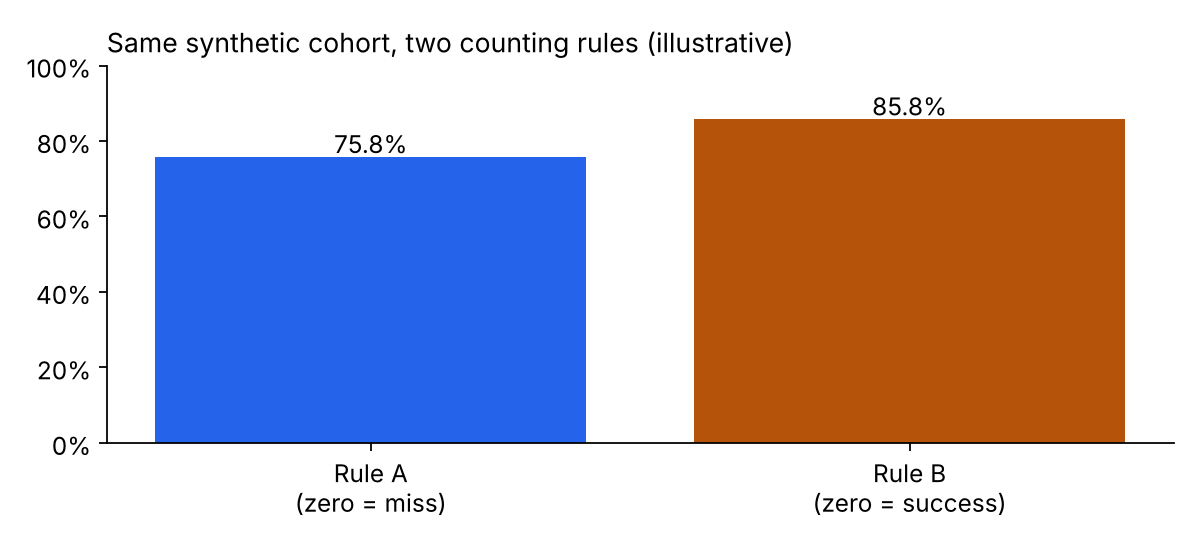
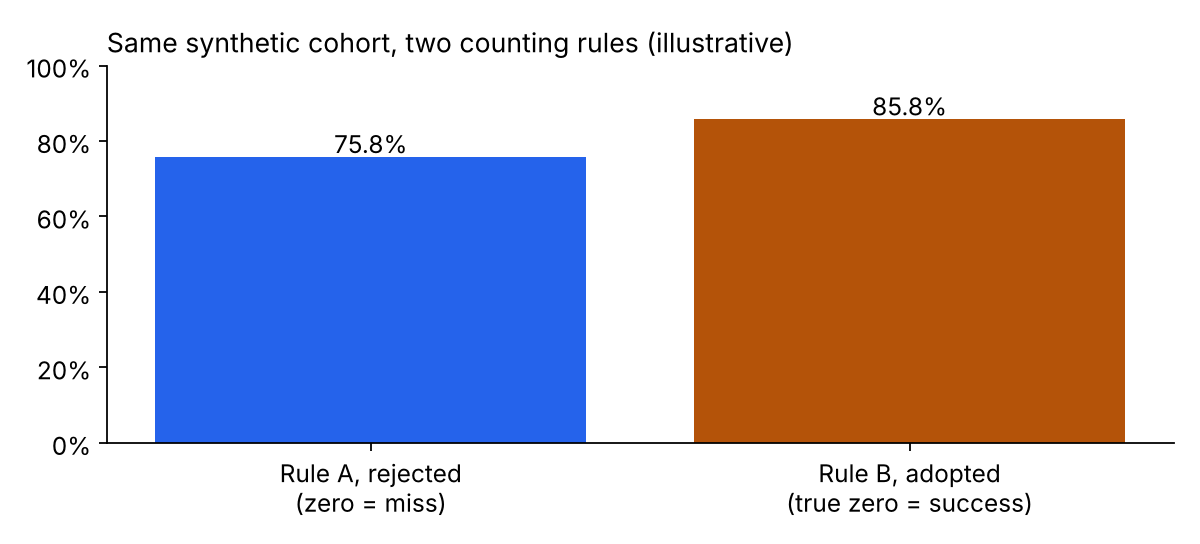
Apply PM decisions, ship jersey hint, add license and deploy config
- Prototype: non-blocking jersey-mismatch / unreadable-number hint (+8 tests, 80 pass)
- Metrics and PRD: verified true-zero week counts as success, missed moment as
  miss, Highlight Coverage companion metric, Phase 1 gate at >=1,000 audited clips
- Record 11 product decisions with reasons in docs/CLAIMS_AND_EVIDENCE.md
- LICENSE (all rights reserved), netlify.toml (publish site/), GitHub Pages workflow
- Update README, wireframe notes, remaining work, analysis wording

Claude-Session: https://claude.ai/code/session_01GCADG3ecfK6e2oSA7HW4Lb

Changed region(s): [[0.6475, 0.8438, 0.8633, 0.9688], [0.2158, 0.8438, 0.4008, 0.9062]]

diff --git a/site/index.html b/site/index.html
@@ -1744,6 +1744,21 @@ function renderReviewQueue() {
       `;
     }
 
+    // Non-blocking hint: compare the number seen in the frame with the child currently assigned.
+    // It never confirms, rejects or skips anything. The coach still decides every clip.
+    let jerseyHintHtml = '';
+    if (clip.status !== 'removed') {
+      const seenNumber = Number(clip.observedJersey); // NaN when the number is not readable
+      const decided = clip.status !== 'unresolved';
+      if (Number.isNaN(seenNumber)) {
+        jerseyHintHtml = `<div class="banner banner-warning jersey-hint"><div><strong>Number not readable on this frame.</strong> Verify who this is another way before deciding.</div></div>`;
+      } else if (assignedPlayer.jersey !== seenNumber) {
+        jerseyHintHtml = decided
+          ? `<div class="banner banner-warning jersey-hint"><div><strong>Heads-up:</strong> this clip is assigned to ${assignedPlayer.name} (#${assignedPlayer.jersey}), but the frame shows jersey #${seenNumber}.</div></div>`
+          : `<div class="banner banner-warning jersey-hint"><div><strong>Check this clip:</strong> the frame shows jersey #${seenNumber}, but the AI proposed ${assignedPlayer.name} (#${assignedPlayer.jersey}). Confirm only if you can verify who this is.</div></div>`;
+      }
+    }
+
     // Individual action controls only (every clip requires explicit decision)
     let actionsHtml = '';
     if (STATE.isPublished) {
@@ -1794,6 +1809,8 @@ function renderReviewQueue() {
       <div style="font-size: 12px; color: #f8fafc;">
         ${clip.description}
       </div>
+
+      ${jerseyHintHtml}
 
       <div class="clip-meta-grid">
         <div>

diff --git a/projects/04-data-analysis-metrics-audit/analysis.py b/projects/04-data-analysis-metrics-audit/analysis.py
@@ -139,12 +139,12 @@ ccdr_a = good.sum() / cohort                       # zero-highlight week counts 
 ccdr_b = (good.sum() + zero.sum()) / cohort        # honest zero counts as success
 out += ["## 6. CCDR under two counting rules (SYNTHETIC cohort, invented rates)", "",
         f"- Cohort: {cohort} child-weeks. Invented outcome rates: zero-highlight {p_zero:.0%}, wrong child {p_wrong:.0%}, held {p_held:.0%}, delivery failure {p_fail:.0%}.",
-        f"- Rule A (honest zero = miss, the current choice): CCDR = **{ccdr_a:.1%}**",
-        f"- Rule B (honest zero = success): CCDR = **{ccdr_b:.1%}**",
-        f"- Difference: {100 * (ccdr_b - ccdr_a):.1f} points, driven entirely by how common zero-highlight weeks are. A quiet-playing child is not a product failure, so Rule A can punish honest behaviour.",
-        "- This is the product decision flagged in docs/CLAIMS_AND_EVIDENCE.md (item D2). The rates are made up; only the mechanism is the finding.", ""]
+        f"- Rule A (honest zero = miss, REJECTED): CCDR = **{ccdr_a:.1%}**",
+        f"- Rule B (verified true-zero = success, ADOPTED): CCDR = **{ccdr_b:.1%}**",
+        f"- Difference: {100 * (ccdr_b - ccdr_a):.1f} points, driven entirely by how common zero-highlight weeks are. A quiet-playing child is not a product failure, so Rule A would punish honest behaviour and push toward padding reels.",
+        "- Product decision (October 2026): adopt Rule B, always report Highlight Coverage beside CCDR, and count a *missed* moment as a miss. The rates are made up; only the mechanism is the finding.", ""]
 fig, ax = plt.subplots(figsize=(7.5, 3.4))
-labs = ["Rule A\n(zero = miss)", "Rule B\n(zero = success)"]
+labs = ["Rule A, rejected\n(zero = miss)", "Rule B, adopted\n(true zero = success)"]
 ax.bar(labs, [ccdr_a, ccdr_b], color=[BLUE, AMBER])
 for i, v in enumerate([ccdr_a, ccdr_b]):
     ax.text(i, v + 0.01, f"{v:.1%}", ha="center")

diff --git a/docs/CLAIMS_AND_EVIDENCE.md b/docs/CLAIMS_AND_EVIDENCE.md
@@ -58,16 +58,25 @@ The original assessment files (Decision Card, submission, materials, AI use log,
 9. The AI log: "Gemini 1.5 / 3.8" looks like a typo.
 10. The assessment's required form for the Decision Card, which these documents should match.
 
-## D. Decisions that need your product judgment
+## D. Product decisions taken (October 2026)
 
-1. **Confidence and review.** I removed all auto-publish and delayed-release tiers, based on your rule that high confidence never bypasses coach review. If your submission had them, tell me how to present them (for example, as a rejected option).
-2. **Zero-highlight and CCDR.** The current metric counts an honest zero-highlight week as a miss in the numerator. Is that your intended definition?
-3. **CCDR with sampled audits.** Keep "every record audited", or define an estimate with an interval?
-4. **Phase 1 gate.** "50 clean matches and CCDR 95%" and "Wilson lower bound 95% at 500 audited clips" are two gates. Both, or one?
-5. **Jersey-mismatch warning.** Should Review warn when a confirmed child's jersey differs from the frame? It would help, but could also train coaches to ignore warnings.
-6. **Reassign preselect.** The modal now preselects the single roster player whose jersey matches the frame. This is generic, not hard-coded to one clip, but it is still a suggestion that could bias a coach. Keep it?
-7. **Lock after publish.** The prototype now blocks review changes after publication. The real correction flow (revoke, reissue, notify) is undefined.
-8. **License.** None exists. Pick one, or state "all rights reserved".
+You asked me to decide as the PM. These are my decisions, with reasons. Each is reversible by editing the files named. **They are recommendations I made on your behalf, so read them before you rely on them.**
+
+| # | Question | Decision | Why | Applied in |
+|---|---|---|---|---|
+| 1 | Can high confidence ever skip coach review? | **No, at any phase.** Confidence only orders and flags the queue. | Matches your rule. A confident model can still be wrong, and the cost of a wrong-child delivery is a trust and safeguarding failure. | PRD sections 3, 8, 14 |
+| 2 | Does an honest zero-highlight week count as a CCDR success? | **A verified true-zero week is a success. A missed moment is a miss.** CCDR is always reported beside **Highlight Coverage**. | Counting honest zero as a miss lowered CCDR by about 10 points in the synthetic cohort and pushes toward padding reels. The coverage companion stops CCDR being gamed by withholding. | Metrics doc, PRD section 13, `projects/04` |
+| 3 | CCDR when audits are sampled | **Phase 1 audits every batch (exact). Later phases report an estimate with a Wilson 95% interval from a stratified sample. Unaudited records never count as success.** | Keeps the metric honest as audit coverage drops. | PRD section 13 |
+| 4 | Phase 1 gate | **All must hold: at least 50 clean matches, Wilson 95% lower bound of at least 0.95 on at least 1,000 audited clips, no unresolved wrong-child incident.** | At 500 clips a truly 97%-accurate system passes only about 57% of the time. At 1,000 it passes about 88%, a fairer test. | PRD section 14, `projects/04` |
+| 5 | Jersey-mismatch warning | **Ship it, as a non-blocking hint.** It appears when the number seen in the frame differs from the assigned child, or when the number is unreadable. It never confirms, rejects or skips a clip. **Validate in the usability test** with and without it. | Cheap, directly targets the 14-vs-4 failure. Risk is warning fatigue, which the test measures. | Prototype, 8 new tests, wireframe C4 |
+| 6 | Reassign preselects the player whose jersey matches the frame | **Keep**, labelled "Preselected because jersey #N matches. Verify visually." | Speeds the common case. Same warning-fatigue risk, same test. | Prototype, wireframe C5 |
+| 7 | Review after publish | **Locked.** A real correction flow (revoke, reissue, notify, audit) is on the roadmap, not designed. | The delivered manifest must not drift from what was sent. | Prototype, wireframe C12, remaining work |
+| 8 | License | **All rights reserved for now** (see `LICENSE`). | This is a portfolio. Visibility matters more than reuse, and you can loosen to MIT later. You cannot take a permissive license back once others copy the repo. | `LICENSE`, README |
+| 9 | Publish your Instagram analysis as a data project? | **Not now.** | Needs a fresh data pull and your consent to publish. The TouchlineAI audit already fills the Data Analysis gap. | Remaining work |
+| 10 | Teardowns | **Publish as clearly labelled drafts**, not as finished work. | They rest on search summaries. Presenting them as hands-on would be misleading. | `projects/02`, `projects/03` |
+| 11 | The October 15 feasibility date | **Keep.** | It is the memo's proposed commitment. The five-day plan fits. | `projects/07` |
+
+Still needing **you**: check the source facts in section C against your original files, and do the teardown hands-on lists.
 
 ## F. Limits of the portfolio projects (added later)
 

diff --git a/analytics/METRICS_DECONSTRUCTION.md b/analytics/METRICS_DECONSTRUCTION.md
@@ -112,19 +112,23 @@ $$\text{CCDR}_w = \frac{\sum_{i \in C_w} Y_i}{|C_w|}$$
 
 Where the binary success indicator $Y_i \in \{0, 1\}$ is defined as:
 
-$$Y_i = \prod_{g \in G_i} \left[ \mathbb{I}(\text{Delivered}_{i,g}) \land \mathbb{I}(\text{Audited}_{i,g}) \land \neg \mathbb{I}(\text{WrongChild}_{i,g}) \right] \times \mathbb{I}\left( \sum_{g \in G_i} \text{Clips}_{i,g} > 0 \right)$$
+$$Y_i = \prod_{g \in G_i} \left[ \mathbb{I}(\text{Delivered}_{i,g}) \land \mathbb{I}(\text{Audited}_{i,g}) \land \neg \mathbb{I}(\text{WrongChild}_{i,g}) \right] \times \mathbb{I}\left( \sum_{g \in G_i} \text{Clips}_{i,g} > 0 \;\lor\; \text{TrueZero}_i \right)$$
 
 Where:
 - $G_i$ is the set of required games played by child $i$ during game week $w$.
 - $\text{Delivered}_{i,g}$: Authorized delivery receipt confirmed before the 7-day cutoff.
 - $\text{Audited}_{i,g}$: Manifest independently inspected by QA.
 - $\text{WrongChild}_{i,g}$: Binary indicator of any misattributed clip in the delivered reel.
-- $\sum_{g \in G_i} \text{Clips}_{i,g} > 0$: Strict requirement of at least one nonempty correctly attributed highlight reel across the game week.
+- $\sum_{g \in G_i} \text{Clips}_{i,g} > 0$: at least one correctly attributed highlight across the game week.
+- $\text{TrueZero}_i$: the independent audit verified that child $i$ genuinely had no eligible highlight moment, and the honest no-highlights notice was delivered.
 
-> **Design choice, open for product decision:** whether an honest zero-highlight week should count as a success or a miss. The text below records the current choice.
+> **Product decision (October 2026): a verified true-zero week counts as a success; a missed moment counts as a miss.**
 >
-> **Alignment with the PRD:**
-> While a true-zero-highlight week is handled gracefully in the user experience (delivering an approved honest notice: *"No confirmed highlights for this game"* without fabricating synthetic filler), safe withholding does **NOT** count as a successful highlight delivery in the core metric numerator. An all-true-zero week remains counted in the denominator as an honest zero-highlight miss rather than a tagging failure, ensuring the primary metric strictly measures positive, verified highlight delivery.
+> CCDR measures *correct delivery*. A child who genuinely had no highlight moment and received the honest notice was not wronged, so that week is a success. A week where the system *missed* a real moment is a miss, because the child lost something they should have had. The audit decides which one it was (see the taxonomy below).
+>
+> **Anti-gaming rule:** CCDR can never be raised by withholding. It is always reported next to **Highlight Coverage** (share of eligible children with at least one confirmed highlight). If coverage falls while CCDR rises, that is a warning, not a win.
+>
+> **Why not count honest zero as a miss?** In the synthetic cohort in `projects/04`, that rule lowered CCDR by about 10 points purely because some children play little. It would punish honest behaviour and push toward padding reels, which the product forbids.
 
 ### Denominator Integrity Rules
 1. **No Silent Drops:** An eligible rostered child cannot be removed from the denominator because the coach forgot to review clips or because video processing failed.
@@ -146,8 +150,8 @@ When $Y_i = 0$, the failure must be mapped to exactly one primary root-cause cat
 │ 2. HELD / UNRESOLVED PIPELINE (Severity 2 - Operational Blockage)           │
 │    Unresolved coach review, missing guardian consent, or failed render      │
 ├─────────────────────────────────────────────────────────────────────────────┤
-│ 3. ZERO HIGHLIGHTS (Severity 3 - Honest Empty State)                        │
-│    Sub-classified into True-Zero (Playtime/Action) vs Missed-Moment (CV Gap)│
+│ 3. MISSED MOMENT (Severity 3 - a real moment was not captured)             │
+│    True-Zero (verified no moment) is NOT a miss and counts as success       │
 ├─────────────────────────────────────────────────────────────────────────────┤
 │ 4. DELIVERY TRANSPORT FAILURE (Severity 4 - Network / Infrastructure)       │
 │    Approved manifest committed, but SMS/Email webhook returned 5xx/timeout  │

diff --git a/specs/PRD_SPECIFICATION.md b/specs/PRD_SPECIFICATION.md
@@ -363,9 +363,10 @@ Feature: TouchlineAI Highlight Review & Publication Pipeline
 ### Primary North Star Metric: Correct-Child Delivery Rate (CCDR)
 $$\text{CCDR} = \frac{\text{Eligible Children with Confirmed, Audited, Correct Highlight Reels}}{\text{Total Eligible Generated Children in Weekly Cohort}}$$
 
-- **Measurement note:** The numerator needs an independent audit of each counted record. If audits are sampled in later phases, CCDR becomes an estimate and should be reported with a Wilson interval (see `analytics/METRICS_DECONSTRUCTION.md`). The exact estimator is an open product decision.
+- **Measurement rule (decided, October 2026):** In Phase 1 every published batch is audited, so CCDR is exact. In later phases, where audits are sampled, CCDR is reported as an **estimate with a Wilson 95% interval** from a stratified sample, and an unaudited record is never counted as a success.
 - **Denominator:** Every eligible child rostered on an active team during the frozen weekly cohort (Monday 00:00 to Monday 00:00 local time). Must include unpublished, unopened, and zero-highlight records.
-- **Numerator:** Children whose guardians received a verified delivery containing at least one correctly attributed highlight and zero misattributed clips, validated by independent QA audit.
+- **Numerator:** Children whose guardians received a verified delivery with zero misattributed clips, validated by independent QA audit, and who either received at least one correctly attributed highlight or had a **verified true-zero week** (honest notice delivered). A week where the system **missed** a real moment is a miss. Product decision, October 2026.
+- **Companion metric, Highlight Coverage:** share of eligible children with at least one confirmed highlight. Always reported next to CCDR so CCDR cannot be improved by withholding.
 
 ### Safety Guardrails
 - **Zero Known Wrong-Child Deliveries [Target]:** Any single confirmed wrong-child incident pauses pilot rollout for that club.
@@ -383,8 +384,10 @@ Phase 1: Controlled Single-Club Pilot
   ├── Independent QA audit of 100% of published reels
   └── No public sharing
         │
-        ▼ Proposed gate: 50 clean matches and CCDR >= 95%, plus the Wilson-interval
-        │ gate in the metrics doc (both to hold; product decision needed)
+        ▼ Gate (decided, October 2026; all must hold): at least 50 clean matches, a Wilson 95%
+        │ lower bound of at least 0.95 on at least 1,000 audited clips, and no unresolved
+        │ wrong-child incident. 1,000 clips, not 500, because at 500 a system that is truly
+        │ 97% accurate passes only about 57% of the time (see projects/04).
 Phase 2: Regional League Expansion
   ├── Faster review tooling (queue ordering, one-clip-at-a-time mode). Every clip still needs a coach decision.
   ├── Sampled QA audit (rate to be set; 20% was floated)

diff --git a/projects/04-data-analysis-metrics-audit/README.md b/projects/04-data-analysis-metrics-audit/README.md
@@ -14,15 +14,15 @@
 | 2 | The 64.4% headline has false precision. Over plausible input ranges (20-40% unopened, 0-10% sharing without opening) it spans **55% to 76%**. Say "about 64%". | Sensitivity analysis | `02_share_rate_sensitivity.png` |
 | 3 | Editor: 6% opened, under 1% of those finished, so **under 0.06%** finished. 58% said they wanted editing. Different populations, so suggestive, not exact. | Source bounds | `03_editor_funnel.png` |
 | 4 | The proposed pilot gate (Wilson lower bound >= 0.95 at 500 audited clips) needs **485 of 500 correct (97.0%)**. | Computed | `04_wilson_gate.png` |
-| 5 | A system that is *truly* 97% accurate passes that gate only **57%** of the time at n = 500. Truly 98% passes 95% of the time. Truly 96% passes 15% of the time. So the audit size is a real product decision. | Exact binomial | `05_gate_power.png` |
-| 6 | Whether an honest zero-highlight week counts as success changes CCDR by about **10 points** in a synthetic cohort. A quiet-playing child is not a product failure, so the current rule can punish honest behaviour. | Synthetic, invented rates | `06_ccdr_rules.png` |
+| 5 | A system that is *truly* 97% accurate passes that gate only **57%** of the time at n = 500. Truly 98% passes 95% of the time. Truly 96% passes 15% of the time. So the audit size is a real product decision. **Decision taken:** the Phase 1 gate uses at least 1,000 audited clips. | Exact binomial | `05_gate_power.png` |
+| 6 | Whether an honest zero-highlight week counts as success changes CCDR by about **10 points** in a synthetic cohort. **Decision taken:** a verified true-zero week counts as a success, a missed moment counts as a miss, and CCDR is always reported beside Highlight Coverage so it cannot be gamed by withholding. | Synthetic, invented rates | `06_ccdr_rules.png` |
 
 Full numbers: [`results.md`](results.md).
 
 ## Why this matters for the product
 - Finding 1 and 2 change how you should *talk* about the data. They also show the attribution priority does not depend on a causal claim the data cannot support.
 - Findings 4 and 5 turn a vague "high accuracy" gate into a concrete audit-size decision: more audited clips means a fairer test of a good system.
-- Finding 6 is a pending product decision (see `docs/CLAIMS_AND_EVIDENCE.md`, item D2).
+- Finding 6 fed a product decision, now recorded in `docs/CLAIMS_AND_EVIDENCE.md` (section D) and applied to the metrics doc and the PRD.
 
 ## Limits
 - All source numbers are as stated in the brief and were not re-verified.

diff --git a/README.md b/README.md
@@ -31,7 +31,7 @@ The hosted copy at <https://sidelinereel-kshitij.netlify.app> is the build from 
 | Step | Do this | You should see |
 |---|---|---|
 | 1 | On **Setup**, press *Run Simulated AI Moment Detection* | 11 proposed clips, every one **unresolved** |
-| 2 | On **Review**, open the clip at 14:22 | The frame shows jersey **#4**, but the AI proposed **Maya S. (#14)** at 94% |
+| 2 | On **Review**, open the clip at 14:22 | The frame shows jersey **#4**, but the AI proposed **Maya S. (#14)** at 94%. An amber hint says so, and does not block anything |
 | 3 | Press *Reassign* | Liam T. (#4) is preselected and the note names Liam. Change the player and the note follows. A note naming a different child blocks confirm |
 | 4 | Confirm, then try *Preview & Publish* | **Publication Blocked**: unresolved clips and Sofia H.'s missing consent |
 | 5 | Press *Remove* on a clip and confirm without a reason | Refused. A reason is mandatory |
@@ -58,12 +58,12 @@ How each requirement maps to the prototype: [Appendix A of the PRD](specs/PRD_SP
 - Checks run in your browser, so they only show the intended rules. A real system must enforce them on a server.
 - No real model has been built or evaluated. No accuracy claim is made anywhere in this repo.
 - Confidence thresholds are deliberately not defined. There is no calibration data.
-- The prototype does not warn when a confirmed child's jersey differs from the number in the frame. Whether it should is an open product decision.
+- The jersey-mismatch warning is a hint only. It cannot tell the coach who is right, and whether it helps or causes warning fatigue is untested.
 - The decision log has no durable store, and shared-jersey cases, roles and guardian views are not built.
 - Consent handling is a mock. It has had no legal review.
 - The scenario figures (tickets, 30% unopened, 92% share, 58% survey) are from the assessment materials and were not re-verified in this repo.
 - Evaluation scores from the assessment, where mentioned elsewhere, are a reviewer's estimates, not official employer results.
-- No license file has been added yet (see [`docs/REMAINING_WORK.md`](docs/REMAINING_WORK.md)).
+- All rights reserved for now (see [`LICENSE`](LICENSE)). Viewing and linking are welcome.
 
 ## Tests
 

diff --git a/docs/REMAINING_WORK.md b/docs/REMAINING_WORK.md
@@ -4,16 +4,16 @@ Updated after the portfolio-projects pass. Items already done are listed at the 
 
 ## 1. Immediate (small, no new infrastructure)
 
-- [ ] Resolve the open decisions in `docs/CLAIMS_AND_EVIDENCE.md` section D.
+- [ ] Read the product decisions taken for you (`docs/CLAIMS_AND_EVIDENCE.md` section D) and change any you disagree with.
 - [ ] Check the source facts in section C against the original assessment files, then correct anything that differs.
 - [ ] **Teardowns:** do the hands-on to-do lists in `projects/02` and `projects/03` (re-open every source link, try the products, add your own screenshots). Until then they are drafts.
 - [ ] **Figma:** finish the file by hand (`projects/01-wireframes-v2/README.md`, "What is left in Figma"): brief page, flow, guardian page, three polish fixes, prototype links. The tool-call allowance on the Starter plan is used up for the month.
 - [ ] Re-record `demo/prototype_walkthrough.mp4` from the corrected build, or label it "assessment build". Replace or archive the old `demo/` screenshots.
 - [ ] Add the narrated video link once it is available again.
-- [ ] Redeploy the Netlify build when you approve the changes (the hosted copy is the assessment build).
-- [ ] Add a LICENSE file or state "all rights reserved".
+- [ ] **Hosting:** the hosted Netlify copy is the assessment build. Either link the Netlify site to this repo (it reads `netlify.toml`, publishing `site/`), or enable GitHub Pages (Settings, Pages, source "GitHub Actions"). Neither could be done or verified from here.
 - [ ] Prototype polish: "Unknown" display for missing fields (FR-5); close modals with Escape and trap focus; a screen-reader pass; replace `alert()` pop-ups with inline messages.
-- [ ] Decide on the jersey-mismatch warning (proposed in wireframe C4).
+- [ ] Run the usability test with and without the jersey-mismatch warning (`projects/01-wireframes-v2`).
+- [ ] Edit the Figma C4 annotation from "PROPOSED" to "Decided: shipped".
 - [ ] Decide whether to publish your own Instagram analysis as a second data project. It needs a fresh data pull and your consent to publish.
 
 ## 2. Livestream feasibility (bounded, no build commitment)

diff --git a/projects/01-wireframes-v2/README.md b/projects/01-wireframes-v2/README.md
@@ -58,7 +58,7 @@ Solid lines are in the prototype. Dotted lines are from the spec only.
 | C1 | Setup and roster | Consent gaps visible before AI runs; roster confirmed first | FR-1, 2, 3, 18, 24 |
 | C2 | Detection running | Progress is explicit and labelled simulated | FR-19, 24 |
 | C3 | Review queue | Every clip starts unresolved; no bulk action | FR-4 to 9, 6 |
-| C4 | Clip focus, 14-vs-4 | **Proposed** jersey-mismatch warning and "confidence is a hint" | FR-4, 8 (proposal) |
+| C4 | Clip focus, 14-vs-4 | Jersey-mismatch warning and "confidence is a hint". **Decided: shipped in the prototype as a non-blocking hint** | FR-4, 8 |
 | C5 / C5b | Reassign, normal and blocked | Note always matches the chosen child | FR-8, 10 |
 | C6 | Remove | A reason is truly mandatory | FR-9, 11 |
 | C7 | Publish blocked | All blockers at once; two explicit consent paths | FR-16, 17, 18, 21 |
@@ -76,7 +76,7 @@ Solid lines are in the prototype. Dotted lines are from the spec only.
 - **Thumbnails show the jersey in the clip.** A wrong-child confirm can no longer look right (C8).
 - **Excluded children stay on the page** with the reason and the number of withheld clips (C8).
 - **Lock after publish**, with an explicit open question about corrections (C12).
-- **Proposals are magenta and labelled.** C4, G1, G3, G4 and G5 carry proposals that need a product decision. They are not hidden in the main design.
+- **Proposals are magenta and labelled.** G1, G3, G4 and G5 carry proposals that still need a product decision. The C4 warning has been decided and built in the prototype. The Figma annotation on C4 still says "PROPOSED" and should be edited by hand.
 
 ## Usability test plan (proposed, not run)
 **Goal:** find out whether coaches actually catch a confident wrong proposal.

diff --git a/projects/04-data-analysis-metrics-audit/results.md b/projects/04-data-analysis-metrics-audit/results.md
@@ -41,8 +41,8 @@
 ## 6. CCDR under two counting rules (SYNTHETIC cohort, invented rates)
 
 - Cohort: 120 child-weeks. Invented outcome rates: zero-highlight 12%, wrong child 3%, held 6%, delivery failure 4%.
-- Rule A (honest zero = miss, the current choice): CCDR = **75.8%**
-- Rule B (honest zero = success): CCDR = **85.8%**
-- Difference: 10.0 points, driven entirely by how common zero-highlight weeks are. A quiet-playing child is not a product failure, so Rule A can punish honest behaviour.
-- This is the product decision flagged in docs/CLAIMS_AND_EVIDENCE.md (item D2). The rates are made up; only the mechanism is the finding.
+- Rule A (honest zero = miss, REJECTED): CCDR = **75.8%**
+- Rule B (verified true-zero = success, ADOPTED): CCDR = **85.8%**
+- Difference: 10.0 points, driven entirely by how common zero-highlight weeks are. A quiet-playing child is not a product failure, so Rule A would punish honest behaviour and push toward padding reels.
+- Product decision (October 2026): adopt Rule B, always report Highlight Coverage beside CCDR, and count a *missed* moment as a miss. The rates are made up; only the mechanism is the finding.
 
